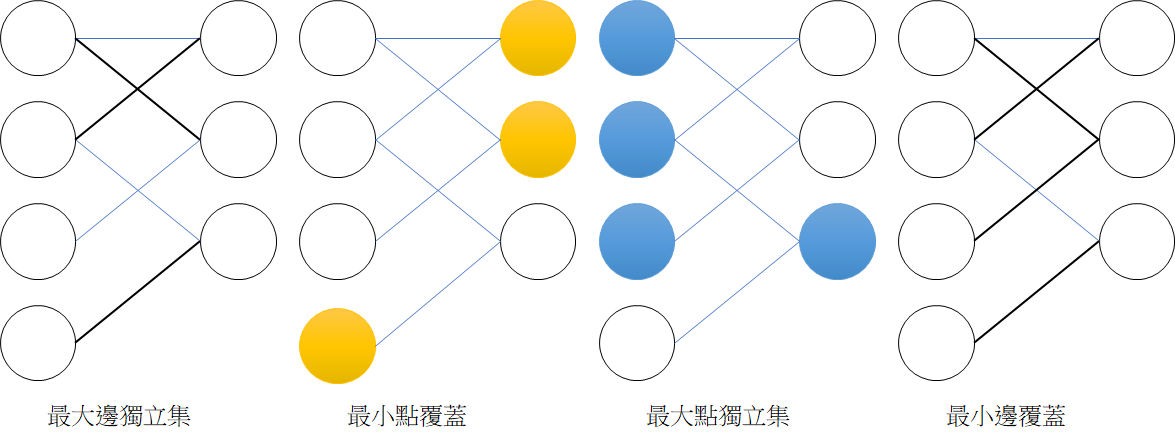
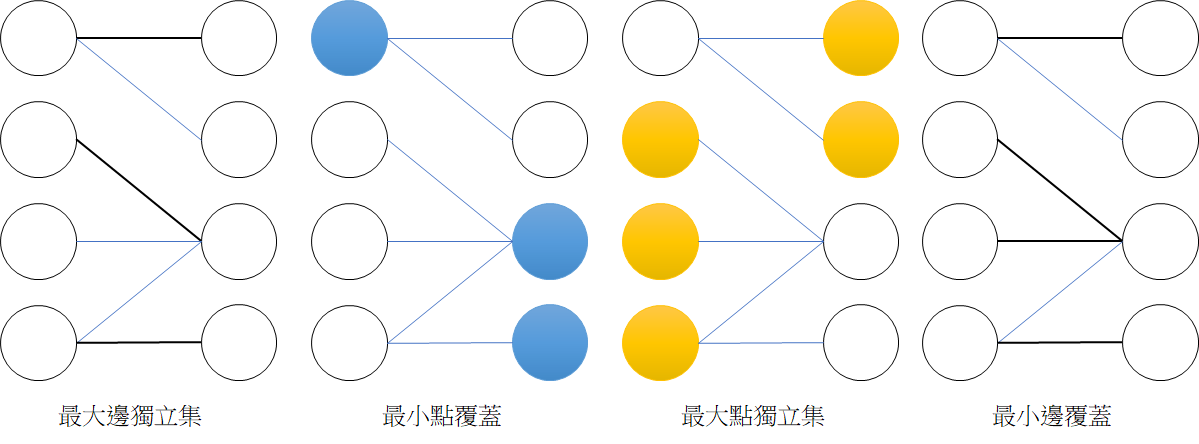
修改匹配相關問題
改圖例，和最小點覆蓋找法

diff --git a/docs/graph/bigraph.md b/docs/graph/bigraph.md
@@ -107,13 +107,21 @@ $X$ 集合個每個點都匹配一次，最多有 $V$ 個點，每次 DFS 的時
 -  $|M|=|C_V|$ 
 -  $|I|=|C_E|=|V|-|M|$ 
 
-下列說明，在找出最大匹配後，如何找出這些問題的其中一組解(可以對照上圖)：
+下列說明，在找出最大匹配後，如何找出這些問題的一組解：
 
-- 最小點覆蓋：對於每個匹配邊上的兩點，如果有一個匹配點有連接到未匹配點，將該點加入最小點覆蓋中，否則任選一點加入最小點覆蓋中。
-- 最大點獨立集：剛好跟最小點覆蓋互補。
-- 最小邊覆蓋：最大匹配的邊，加上每個未匹配點所連接的任意一條。
+### 最小點覆蓋
 
-因此，只要算出最大匹配，就可以算出其他問題。
+從 $X$ 中的未匹配點 DFS，依序經過未匹配邊 -> 匹配邊 -> 未匹配邊 -> 匹配邊 -> ...，最小點覆蓋即為左側所有未拜訪過的點 + 所有右側拜訪過的點。
+
+![](images/minimumVertexCover.png)
+
+### 最大點獨立集
+
+剛好跟最小點覆蓋互補。
+
+### 最小邊覆蓋
+
+最大匹配的邊，加上每個未匹配點所連接的任意一條。
 
 ## 二分圖最大權重匹配
 
